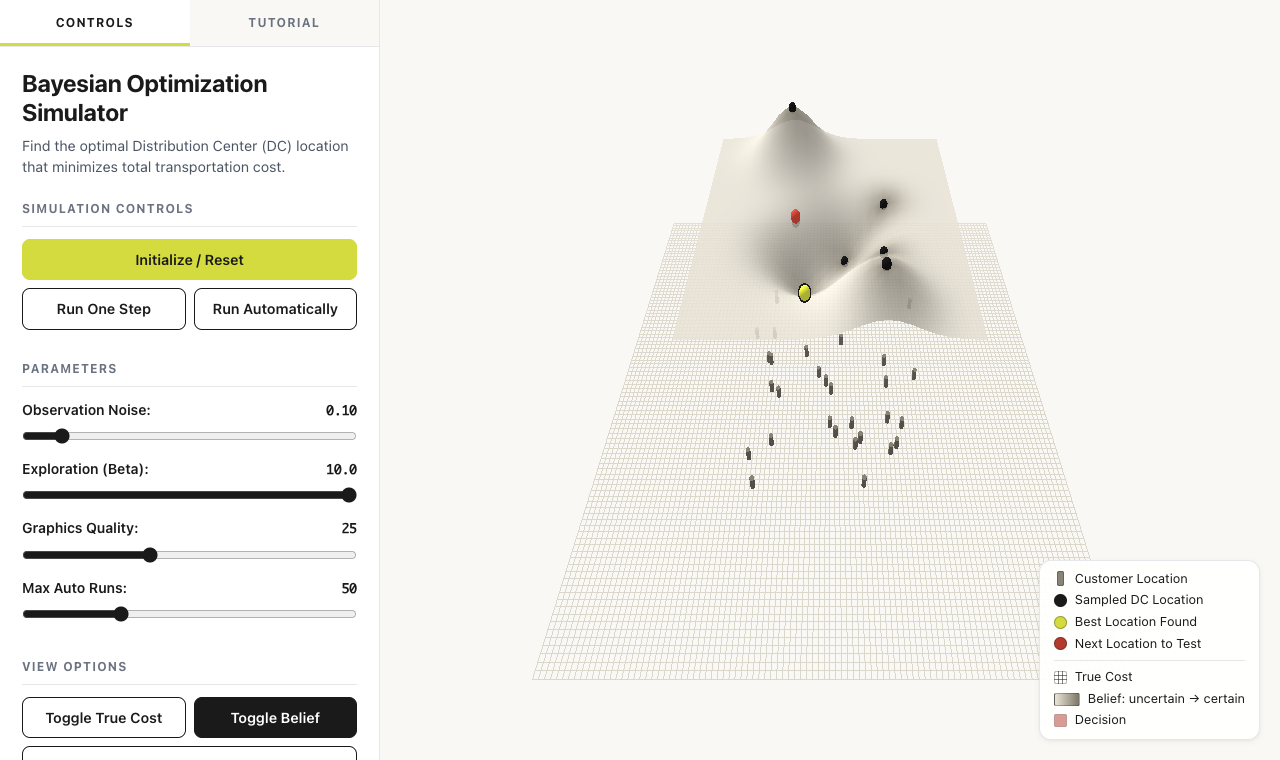
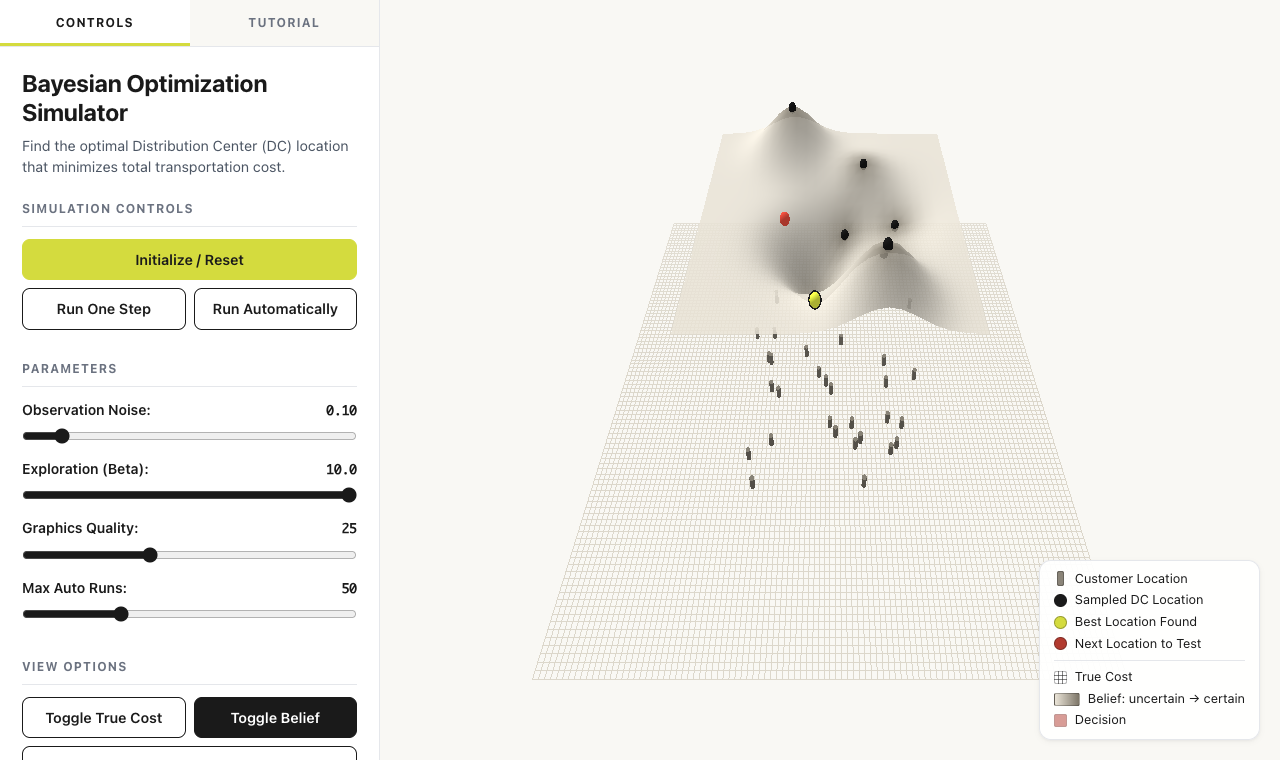
BO-simulator: eerst testen, dan het model bijwerken
Run One Step test nu eerst de plek van de rode bol en werkt na 500 ms
het model bij en kiest de volgende plek. In het origineel liep het vlak
een test achter: een nieuwe beste plek lag tot 2,5 kosteneenheden onder
het vlak, en de rode bol stond tussen twee klikken op de plek die net
getest was. Nu is het gat 0,00 vanaf stap 2 en is de rode bol steeds de
volgende test. De keuzeregel en het aantal stappen zijn gelijk; twee
snelle klikken geven één test. LEESMIJ krijgt aanpassing 3 met de
meting, vier-vragen.html de nieuwe uitleg van Run One Step, en twee
schermafbeeldingen zijn opnieuw gemaakt. De regel in het wijzigingslog
(onder 0.23) zit al in 811fb66.

diff --git a/materiaal/vier-vragen.html b/materiaal/vier-vragen.html
@@ -423,7 +423,7 @@ html:not(.js) nav.bediening button{display:none}
             <thead><tr><th scope="col">In de simulator</th><th scope="col">Wat het betekent</th></tr></thead>
             <tbody>
               <tr><th scope="row">Initialize / Reset</th><td>Begin opnieuw met twee tests op een willekeurige plek.</td></tr>
-              <tr><th scope="row">Run One Step</th><td>Eén stap: het model werkt zijn beeld bij, kiest de volgende plek en test die.</td></tr>
+              <tr><th scope="row">Run One Step</th><td>Eén stap: test de plek van de rode bol. Daarna werkt het model zijn beeld bij en kiest het de volgende.</td></tr>
               <tr><th scope="row">Run Automatically</th><td>Stappen achter elkaar. Klik op "Stop" om te stoppen.</td></tr>
               <tr><th scope="row">Observation Noise</th><td>De meetfout: hoe onbetrouwbaar één test is.</td></tr>
               <tr><th scope="row">Exploration (Beta)</th><td>β: hoeveel de regel verkent.</td></tr>
@@ -457,11 +457,11 @@ html:not(.js) nav.bediening button{display:none}
               <figcaption>Na Initialize / Reset. Het model weet nog bijna niets.</figcaption>
             </figure>
             <figure>
-              <a href="./bo-demo/stap-laag-beta.png" target="_blank" rel="noopener"><img src="./bo-demo/stap-laag-beta.png" width="1280" height="760" loading="lazy" alt="De simulator na vijf stappen met β 0,5. De zwarte bollen liggen dicht bij elkaar in één kuil rond de gele bol, de beste plek. De rode bol ligt er weer naast. De rest van het vlak is bleek: daar is niet getest."><span class="sr"> (groot, in een nieuw tabblad)</span></a>
+              <a href="./bo-demo/stap-laag-beta.png" target="_blank" rel="noopener"><img src="./bo-demo/stap-laag-beta.png" width="1280" height="760" loading="lazy" alt="De simulator na vijf stappen met β 0,5. De zwarte bollen liggen dicht bij elkaar in één dal, met de gele bol, de beste plek, onderaan. De rode bol van de volgende test ligt er vlak naast. De rest van het vlak is bleek: daar is niet getest."><span class="sr"> (groot, in een nieuw tabblad)</span></a>
               <figcaption>Vijf stappen met β = 0,5. De tests blijven bij de beste plek.</figcaption>
             </figure>
             <figure>
-              <a href="./bo-demo/stap-hoog-beta.png" target="_blank" rel="noopener"><img src="./bo-demo/stap-hoog-beta.png" width="1280" height="760" loading="lazy" alt="De simulator na vijf stappen met β 10, in dezelfde wereld. De zwarte bollen liggen verspreid over het veld, elk met een grijze vlek: daar is het model nu zekerder. De rode bol ligt ver van de gele."><span class="sr"> (groot, in een nieuw tabblad)</span></a>
+              <a href="./bo-demo/stap-hoog-beta.png" target="_blank" rel="noopener"><img src="./bo-demo/stap-hoog-beta.png" width="1280" height="760" loading="lazy" alt="De simulator na vijf stappen met β 10, in dezelfde wereld. De zwarte bollen liggen verspreid over het veld, elk met een grijze vlek: daar is het model nu zekerder. De rode bol van de volgende test ligt ver van de gele, waar nog niet getest is."><span class="sr"> (groot, in een nieuw tabblad)</span></a>
               <figcaption>Vijf stappen met β = 10. De tests waaieren uit over onbekend terrein.</figcaption>
             </figure>
           </div>

diff --git a/materiaal/bo-demo/bo-simulator-fast.html b/materiaal/bo-demo/bo-simulator-fast.html
@@ -408,6 +408,7 @@
             bestCostFound: Infinity,
             bestLocationFound: null,
             maxIterations: 50,
+            nextPoint: null, // AISO-reparatie: de plek van de rode bol, die bij de volgende stap getest wordt
         };
 
         // --- UI Elements ---
@@ -791,7 +792,7 @@
                 if (bestMarker) scene.remove(bestMarker);
                 const bestGeom = new THREE.SphereGeometry(1.1, 16, 16); // AISO-huisstijl: iets groter (origineel 1)
                 // AISO-huisstijl: de beste plek is het enige signaal en staat altijd bovenop (depthTest uit, na de doorzichtige vlakken).
-                // Zonder dit ligt hij vaak een stap lang onder het vlak: step() werkt het vlak bij vóór de nieuwe test erbij komt.
+                // Zo blijft hij heel zichtbaar, ook als hij half in het vlak ligt of in de 500 ms na een test nog even eronder.
                 const bestMat = new THREE.MeshStandardMaterial({ color: SCENE_COLORS.best, emissive: SCENE_COLORS.best, emissiveIntensity: 0.2, transparent: true, depthTest: false });
                 bestMarker = new THREE.Mesh(bestGeom, bestMat);
                 bestMarker.renderOrder = 11;
@@ -878,15 +879,24 @@
             scene.add(nextMarker);
             
             render();
+            boState.nextPoint = nextPointToSample; // AISO-reparatie: onthoud de keuze; step() test hem
             return nextPointToSample;
         }
 
+        // AISO-reparatie: eerst testen, dan het model bijwerken (het origineel deed het andersom).
+        // In het origineel was het vlak tussen twee klikken het beeld van vóór de laatste test: een nieuwe
+        // beste plek lag dan onder het vlak, en de rode bol stond op de plek die net getest was.
+        // Nu: test de rode plek, en werk na 500 ms het vlak bij en kies de volgende. Tussen twee klikken
+        // gaat het vlak door alle tests en staat de rode bol op de volgende test. De keuzeregel is gelijk.
         function step() {
-            if (!boState.isRunning) return;
-            const nextPoint = runBOIteration();
-            if(!nextPoint) return;
+            if (!boState.isRunning || !boState.nextPoint) return;
+            const nextPoint = boState.nextPoint;
+            boState.nextPoint = null; // een tweede klik binnen 500 ms test niet twee keer dezelfde plek
+            if (nextMarker) { scene.remove(nextMarker); nextMarker = null; }
+            addSample(nextPoint);
+            updateUI();
             setTimeout(() => {
-                 addSample(nextPoint);
+                 runBOIteration();
                  updateUI();
             }, 500);
         }

diff --git a/materiaal/bo-demo/LEESMIJ.md b/materiaal/bo-demo/LEESMIJ.md
@@ -4,7 +4,7 @@ Een simulator die laat zien hoe Bayesiaans optimaliseren de volgende test kiest.
 
 - **Gebruik:** de lespagina `materiaal/vier-vragen.html`, stap 4 (dag 1 om 11:00, FR-34). Op dag 3 komt hij terug bij vraag 4, de roadmap.
 - **Bron:** <https://github.com/businessdatasolutions/bayesian-optimization>, commit `a6bd2ae0fae4045823eee4383aee705d75bc4139` van 2 september 2025.
-- **Wat is gekopieerd:** alleen `bo-simulator-fast.html` en `LICENSE`, op 8 november 2026. `bo-simulator-fast.html` wijkt op twee punten af van het origineel: een reparatie van het model en de huisstijl. Zie "Aanpassingen ten opzichte van het origineel". De openbare repo is niet gewijzigd.
+- **Wat is gekopieerd:** alleen `bo-simulator-fast.html` en `LICENSE`, op 8 november 2026. `bo-simulator-fast.html` wijkt op drie punten af van het origineel: twee reparaties (het model, en de volgorde binnen een stap) en de huisstijl. Zie "Aanpassingen ten opzichte van het origineel". De openbare repo is niet gewijzigd.
 - **Licentie:** MIT. Copyright (c) 2025 businessdatasolutions. De volledige tekst staat in `LICENSE`.
 
 ## Live versies
@@ -25,7 +25,7 @@ Bij elke keer laden staan de dertig klanten op een andere plek. Twee groepen zie
 | In de simulator | Wat het doet |
 |---|---|
 | Initialize / Reset | Begin of begin opnieuw. De simulator doet twee tests op een willekeurige plek, als eerste aanwijzing. |
-| Run One Step | Eén stap: het model werkt zijn beeld bij, kiest de volgende plek (de rode bol) en test die. |
+| Run One Step | Eén stap: de simulator test de plek van de rode bol. Daarna werkt het model zijn beeld bij en kiest het de volgende plek, een nieuwe rode bol. |
 | Run Automatically | Stappen achter elkaar, tot "Max Auto Runs" (standaard 50). Klik op "Stop" om te stoppen. |
 | Observation Noise | De meetfout: hoe onbetrouwbaar één test is. Bij 0 klopt elke test precies. |
 | Exploration (Beta) | β: hoeveel de keuzeregel verkent. Laag: blijf bij wat goed lijkt. Hoog: test waar je het minst weet. |
@@ -40,6 +40,8 @@ Een weergaveknop die aan staat, is zwart. Bij het laden staat alleen Toggle Beli
 
 **De kleuren:** grijze staafjes zijn klanten. Zwarte bollen zijn plekken die al getest zijn. De gele bol met de zwarte rand is de beste plek tot nu toe. De rode bol is de volgende test. De gele en de rode bol staan altijd vooraan, ook als er een vlak voor ligt. De legenda rechtsonder noemt ook de drie vlakken.
 
+Tussen twee klikken gaat het vlak door alle tests, en is de rode bol de volgende test. Het laagste punt van het vlak ligt vaak één rasterhok naast de gele bol, en iets lager. Dat klopt: de gele bol is de beste meting, en daarnaast verwacht het model nog lagere kosten. Bij een lage β komt de volgende test daar.
+
 De uitleg in de simulator zelf (tabblad "Tutorial") is Engels en gebruikt dezelfde kleuren.
 
 ## Schermafbeeldingen (reserve)
@@ -47,8 +49,10 @@ De uitleg in de simulator zelf (tabblad "Tutorial") is Engels en gebruikt dezelf
 Gemaakt op 8 november 2026 met de aangepaste kopie in de huisstijl, in een venster van 1280 bij 760 pixels. Alle drie in dezelfde wereld: dezelfde klanten, dezelfde echte kosten en dezelfde twee eerste tests. Dat kan doordat `Math.random` een vaste beginwaarde kreeg (seed 7). De opnames zijn gemaakt in Chrome via Playwright.
 
 - `start.png`: na Initialize / Reset met β = 0,5. Twee tests. Het vlak is bijna overal bleek: het model weet nog bijna niets. De rode bol ligt naast de gele.
-- `stap-laag-beta.png`: vijf stappen met β = 0,5. De zwarte bollen liggen bij elkaar, in één kuil rond de gele bol.
-- `stap-hoog-beta.png`: vijf stappen met β = 10. De zwarte bollen liggen verspreid over het veld.
+- `stap-laag-beta.png`: vijf stappen met β = 0,5. De zwarte bollen liggen bij elkaar in één dal, met de gele bol onderaan. De rode bol ligt er vlak naast.
+- `stap-hoog-beta.png`: vijf stappen met β = 10. De zwarte bollen liggen verspreid over het veld. De rode bol ligt ver van de gele, waar nog niet getest is.
+
+De schermafbeeldingen zijn gemaakt na aanpassing 3 (zie hieronder). `start.png` bleef daarbij gelijk, want Initialize / Reset is niet veranderd.
 
 ## Aanpassingen ten opzichte van het origineel
 
@@ -76,7 +80,7 @@ Met de aanpassing blijft een lage β bij de beste plek, en waaiert een hoge β u
 - Alle kleuren van de scène staan in `SCENE_COLORS`. Zwart is wat gemeten is: de tests en de draadjes van de echte kosten. Geel is de beste plek. Rood is de keuzeregel: het vlak en de bol die hij kiest. Grijs is context: de klanten. Het vlak van het model loopt van bleek (onzeker) naar warm grijs (zekerder).
 - Het licht is zachter: 0,6 en 0,5 in plaats van 0,7 en 0,7. Anders wordt het bleke vlak wit.
 - Het vlak van het model heeft wit als materiaalkleur. In het origineel vermenigvuldigde Three.js de kleur per hoekpunt met blauwgroen. Daardoor was het onzekere deel fel groen, terwijl de code geel opgaf.
-- De beste plek is iets groter (straal 1,1 in plaats van 1) en heeft een zwarte rand. Hij staat altijd vooraan, net als de volgende test, en de volgende test staat weer vóór de beste plek. Zonder dat lag de beste plek vaak onder het vlak, want `step()` werkt het vlak bij voordat de nieuwe test erbij komt.
+- De beste plek is iets groter (straal 1,1 in plaats van 1) en heeft een zwarte rand. Hij staat altijd vooraan, net als de volgende test, en de volgende test staat weer vóór de beste plek. Zo blijft hij heel zichtbaar, ook als hij half in het vlak ligt.
 - De weergaveknoppen tonen of hun laag aan staat (`aria-pressed`). Bij een andere Graphics Quality blijft een laag aan of uit. In het origineel sprong hij dan terug naar de beginstand.
 - De legenda noemt ook de drie vlakken.
 - In de Tutorial volgen de kleurwoorden de nieuwe kleuren. Twee zinnen zijn ook inhoudelijk hersteld. De kleur van het vlak toont de onzekerheid, niet de kosten. En de volgende test komt op het laagste punt van het keuzevlak, niet op een piek.
@@ -85,4 +89,21 @@ Met de aanpassing blijft een lage β bij de beste plek, en waaiert een hoge β u
 
 **Controle (8 november 2026):** de rekensom is niet veranderd. In de drie nieuwe schermafbeeldingen blijft een lage β bij de beste plek, en waaiert een hoge β uit. De console toont geen fouten, op een 404 voor de ontbrekende favicon na.
 
-**Bij een nieuwe versie van het origineel:** kopieer opnieuw en breng de wijzigingen met `AISO-reparatie` en `AISO-huisstijl` weer aan. Kijk eerst of het origineel de reparatie zelf al heeft. Maak daarna de drie schermafbeeldingen opnieuw.
+### 3. Eerst testen, dan het model bijwerken
+
+**Wat:** `step()` test eerst de plek van de rode bol. Na 500 ms werkt het model zijn beeld bij en kiest het de volgende plek. Het origineel deed het andersom: eerst bijwerken en kiezen, en 500 ms later testen. De gekozen plek staat in `boState.nextPoint`. Een tweede klik binnen die 500 ms doet niets, zodat dezelfde plek niet twee keer getest wordt. Elke plek heeft een commentaar `AISO-reparatie`. De keuzeregel zelf is niet veranderd.
+
+**Waarom:** in het origineel was het vlak tussen twee klikken het beeld van vóór de laatste test. De rode bol stond dan op de plek die net getest was. Een nieuwe beste plek lag daardoor onder het vlak, tot 2,5 kosteneenheden lager. Met de gele bol vooraan (aanpassing 2) zag je hem naast het vlak zweven. En "de rode bol is de volgende test" klopte alleen vlak na Initialize / Reset.
+
+**Controle (8 november 2026):** in de browser, met β = 0,5 en een vaste beginwaarde, gemeten tussen twee klikken. Het gat is het verschil tussen het vlak en de gemeten kosten van de beste plek.
+
+| Na stap | Gat, origineel | Gat, aangepast |
+|---|---|---|
+| 2 | 2,25 | 0,00 |
+| 3 | 2,54 | 0,00 |
+| 4 | 1,84 | 0,00 |
+| 5 | 1,73 | 0,00 |
+
+In het origineel stond de rode bol na elke stap op een geteste plek, na de aanpassing steeds op een nieuwe. Het aantal stappen en tests is gelijk gebleven. Na stap 1 bleef een gat van 0,77 over. Daar was de beste plek nog een van de twee willekeurige starttests, en die liggen niet op het raster. De meting nam het dichtstbijzijnde rasterpunt, dus het gat op het scherm is kleiner. Twee snelle klikken geven één test, en Run Automatically loopt door en stopt.
+
+**Bij een nieuwe versie van het origineel:** kopieer opnieuw en breng de wijzigingen met `AISO-reparatie` en `AISO-huisstijl` weer aan. Kijk eerst of het origineel de reparaties zelf al heeft. Maak daarna de drie schermafbeeldingen opnieuw.
